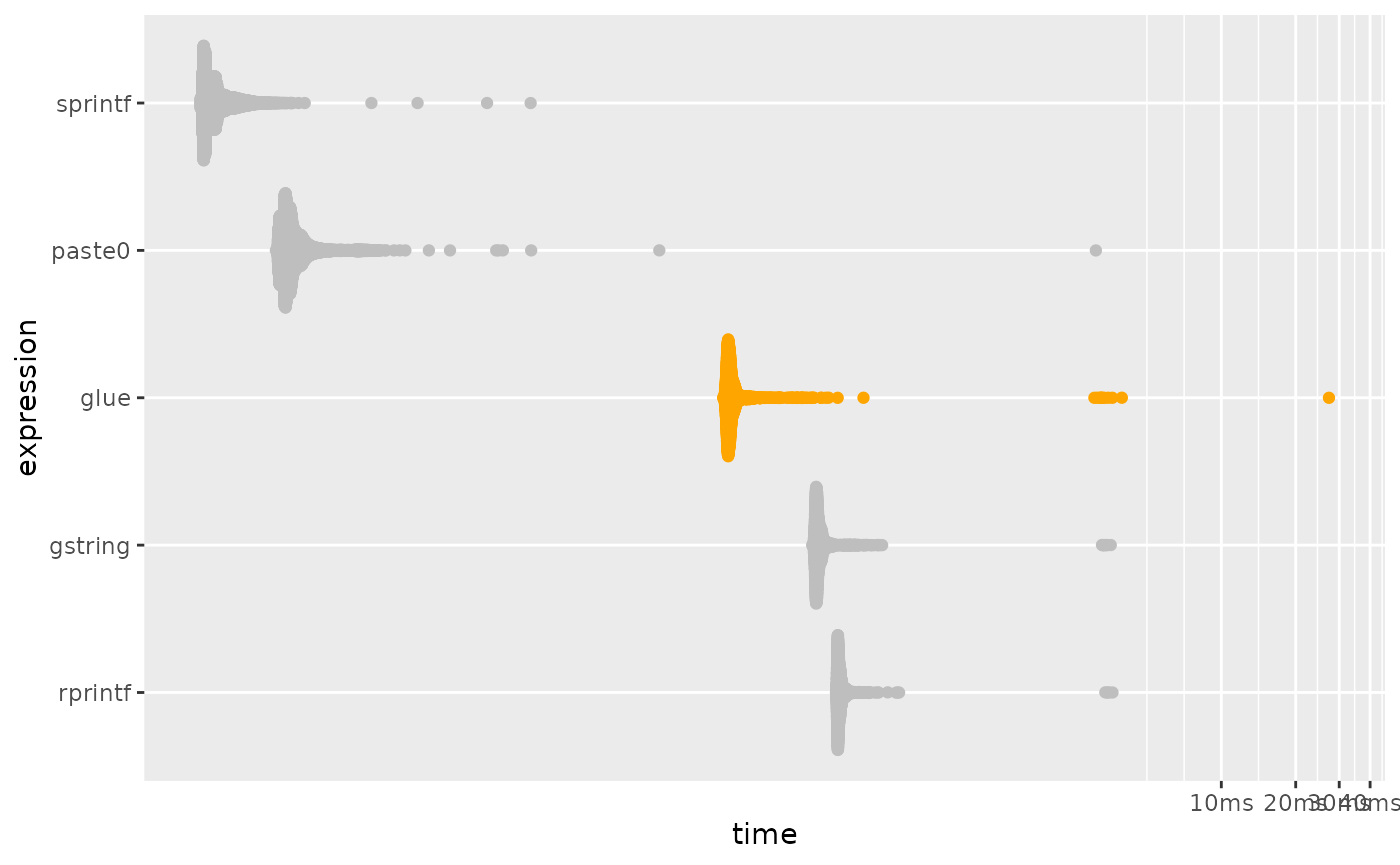
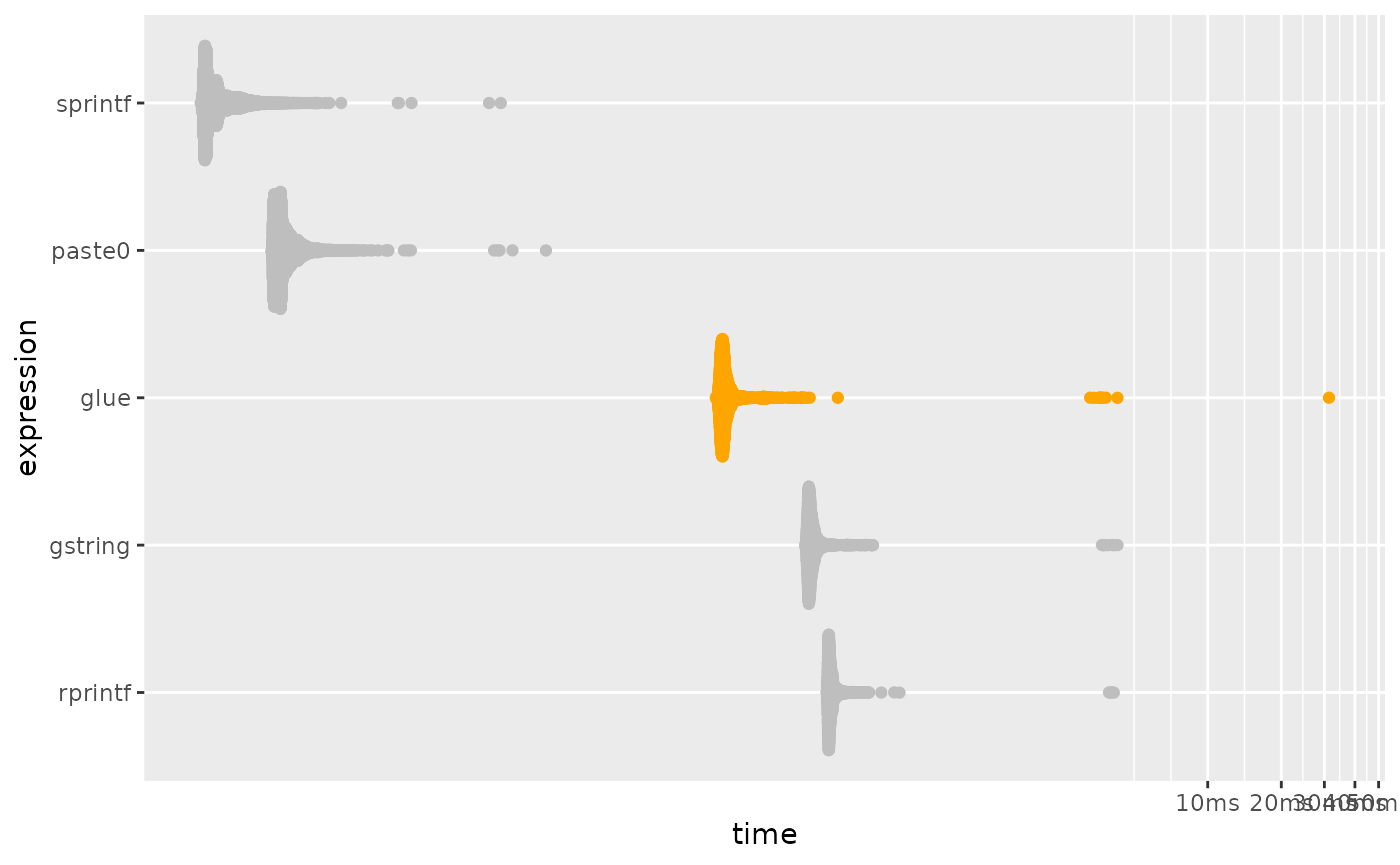
Deploying to gh-pages from @ tidyverse/glue@eaa95f7f5fe1a40b92008b4f567b5ed26bdb2cfd 🚀

diff --git a/dev/articles/wrappers.html b/dev/articles/wrappers.html
@@ -121,7 +121,8 @@ the withr, cli, and rlang packages (e.g. <code><a href="https://withr.r-lib.org
 <h2 id="working-example">Working example<a class="anchor" aria-label="anchor" href="#working-example"></a>
 </h2>
 <p>Here’s an abbreviated excerpt of the roxygen comment that generates
-the documentation for the starwars dataset in dplyr:</p>
+the documentation for the starwars dataset in dplyr
+(<code><a href="https://dplyr.tidyverse.org/reference/starwars.html" class="external-link">?dplyr::starwars</a></code>):</p>
 <div class="sourceCode" id="cb3"><pre class="downlit sourceCode r">
 <code class="sourceCode R"><span><span class="co">#' \describe{</span></span>
 <span><span class="co">#' \item{name}{Name of the character}</span></span>
@@ -131,11 +132,11 @@ the documentation for the starwars dataset in dplyr:</p>
 <span><span class="co">#' \item{films}{List of films the character appeared in}</span></span>
 <span><span class="co">#' }</span></span></code></pre></div>
 <p>To produce such text programmatically, the first step might be to
-generate the <code>\item</code> lines from a named list of column names
-and descriptions. Notice that <code>{</code> and <code>}</code> are
-important to the <code>\describe{...}</code> syntax, so this is an
-example where it is nice for glue to use different delimiters for
-expressions.</p>
+generate the <code>\item{}{}</code> lines from a named list of column
+names and descriptions. Notice that <code>{</code> and <code>}</code>
+are important to the <code>\describe{...}</code> and
+<code>\item{}{}</code> syntax, so this is an example where it is nice
+for glue to use different delimiters for expressions.</p>
 <p>Put the metadata in a suitable list:</p>
 <div class="sourceCode" id="cb4"><pre class="downlit sourceCode r">
 <code class="sourceCode R"><span><span class="va">sw_meta</span> <span class="op">&lt;-</span> <span class="fu"><a href="https://rdrr.io/r/base/list.html" class="external-link">list</a></span><span class="op">(</span></span>
@@ -147,15 +148,16 @@ expressions.</p>
 <span><span class="op">)</span></span></code></pre></div>
 <p>Define a custom glue wrapper and use it inside another helper that
 generates <code>\item</code> entries<a class="footnote-ref" tabindex="0" data-bs-toggle="popover" data-bs-content="&lt;p&gt;Note that delimiters &lt;code&gt;&amp;lt;&amp;lt;&lt;/code&gt; and
-`&lt;code&gt;&amp;gt;&amp;gt;&lt;/code&gt; have special meaning in knitr, so if you’re
-generating output for RMarkdown or Quarto, you should avoid them.&lt;/p&gt;"><sup>1</sup></a>:</p>
+&lt;code&gt;&amp;gt;&amp;gt;&lt;/code&gt; have special meaning in knitr (they are used for a
+templating feature in knitr itself). So in code chunks inside RMarkdown
+or Quarto documents, you may need to use different delimiters.&lt;/p&gt;"><sup>1</sup></a>:</p>
 <div class="sourceCode" id="cb5"><pre class="downlit sourceCode r">
 <code class="sourceCode R"><span><span class="va">my_glue</span> <span class="op">=</span> <span class="kw">function</span><span class="op">(</span><span class="va">...</span><span class="op">)</span> <span class="op">{</span></span>
-<span>  <span class="fu"><a href="../reference/glue.html">glue</a></span><span class="op">(</span><span class="va">...</span>, .open <span class="op">=</span> <span class="st">"&lt;@"</span>, .close <span class="op">=</span> <span class="st">"@&gt;"</span>, .envir <span class="op">=</span> <span class="fu"><a href="https://rdrr.io/r/base/sys.parent.html" class="external-link">parent.frame</a></span><span class="op">(</span><span class="op">)</span><span class="op">)</span></span>
+<span>  <span class="fu"><a href="../reference/glue.html">glue</a></span><span class="op">(</span><span class="va">...</span>, .open <span class="op">=</span> <span class="st">"&lt;&lt;"</span>, .close <span class="op">=</span> <span class="st">"&gt;&gt;"</span>, .envir <span class="op">=</span> <span class="fu"><a href="https://rdrr.io/r/base/sys.parent.html" class="external-link">parent.frame</a></span><span class="op">(</span><span class="op">)</span><span class="op">)</span></span>
 <span><span class="op">}</span></span>
 <span></span>
 <span><span class="va">named_list_to_items</span> <span class="op">&lt;-</span> <span class="kw">function</span><span class="op">(</span><span class="va">x</span><span class="op">)</span> <span class="op">{</span></span>
-<span>  <span class="fu">my_glue</span><span class="op">(</span><span class="st">"\\item{&lt;@names(x)@&gt;}{&lt;@x@&gt;}"</span><span class="op">)</span></span>
+<span>  <span class="fu">my_glue</span><span class="op">(</span><span class="st">"\\item{&lt;&lt;names(x)&gt;&gt;}{&lt;&lt;x&gt;&gt;}"</span><span class="op">)</span></span>
 <span><span class="op">}</span></span></code></pre></div>
 <p>Apply <code>named_list_to_items()</code> to starwars metadata:</p>
 <div class="sourceCode" id="cb6"><pre class="downlit sourceCode r">
@@ -169,11 +171,11 @@ generating output for RMarkdown or Quarto, you should avoid them.&lt;/p&gt;"><su
 <code>.envir</code> correctly in our wrapper function:</p>
 <div class="sourceCode" id="cb7"><pre class="downlit sourceCode r">
 <code class="sourceCode R"><span><span class="va">my_glue_WRONG</span> <span class="op">&lt;-</span> <span class="kw">function</span><span class="op">(</span><span class="va">...</span><span class="op">)</span> <span class="op">{</span></span>
-<span>  <span class="fu"><a href="../reference/glue.html">glue</a></span><span class="op">(</span><span class="va">...</span>, .open <span class="op">=</span> <span class="st">"&lt;@"</span>, .close <span class="op">=</span> <span class="st">"@&gt;"</span><span class="op">)</span></span>
+<span>  <span class="fu"><a href="../reference/glue.html">glue</a></span><span class="op">(</span><span class="va">...</span>, .open <span class="op">=</span> <span class="st">"&lt;&lt;"</span>, .close <span class="op">=</span> <span class="st">"&gt;&gt;"</span><span class="op">)</span></span>
 <span><span class="op">}</span></span>
 <span></span>
 <span><span class="va">named_list_to_items_WRONG</span> <span class="op">&lt;-</span> <span class="kw">function</span><span class="op">(</span><span class="va">x</span><span class="op">)</span> <span class="op">{</span></span>
-<span>  <span class="fu">my_glue_WRONG</span><span class="op">(</span><span class="st">"\\item{&lt;@names(x)@&gt;}{&lt;@x@&gt;}"</span><span class="op">)</span></span>
+<span>  <span class="fu">my_glue_WRONG</span><span class="op">(</span><span class="st">"\\item{&lt;&lt;names(x)&gt;&gt;}{&lt;&lt;x&gt;&gt;}"</span><span class="op">)</span></span>
 <span><span class="op">}</span></span>
 <span></span>
 <span><span class="fu">named_list_to_items_WRONG</span><span class="op">(</span><span class="va">sw_meta</span><span class="op">)</span></span>

diff --git a/dev/articles/speed.html b/dev/articles/speed.html
@@ -154,11 +154,11 @@ this benchmark, but is now formally marked as “superseded”, in favor of
 <span><span class="co">#&gt; <span style="color: #949494;"># A tibble: 5 × 6</span></span></span>
 <span><span class="co">#&gt;   expression      min   median `itr/sec` mem_alloc `gc/sec`</span></span>
 <span><span class="co">#&gt;   <span style="color: #949494; font-style: italic;">&lt;bch:expr&gt;</span> <span style="color: #949494; font-style: italic;">&lt;bch:tm&gt;</span> <span style="color: #949494; font-style: italic;">&lt;bch:tm&gt;</span>     <span style="color: #949494; font-style: italic;">&lt;dbl&gt;</span> <span style="color: #949494; font-style: italic;">&lt;bch:byt&gt;</span>    <span style="color: #949494; font-style: italic;">&lt;dbl&gt;</span></span></span>
-<span><span class="co">#&gt; <span style="color: #BCBCBC;">1</span> sprintf    740.98ns 832.02ns  1<span style="text-decoration: underline;">151</span>864.        0B     0   </span></span>
-<span><span class="co">#&gt; <span style="color: #BCBCBC;">2</span> paste0       1.49µs   1.69µs   <span style="text-decoration: underline;">560</span>587.        0B    56.1 </span></span>
-<span><span class="co">#&gt; <span style="color: #BCBCBC;">3</span> glue        96.35µs  102.3µs     <span style="text-decoration: underline;">9</span>517.  141.72KB    25.1 </span></span>
-<span><span class="co">#&gt; <span style="color: #BCBCBC;">4</span> gstring    220.95µs 232.12µs     <span style="text-decoration: underline;">4</span>211.    2.45MB    14.7 </span></span>
-<span><span class="co">#&gt; <span style="color: #BCBCBC;">5</span> rprintf     275.9µs 283.26µs     <span style="text-decoration: underline;">3</span>477.  503.39KB     8.23</span></span>
+<span><span class="co">#&gt; <span style="color: #BCBCBC;">1</span> sprintf    761.12ns 871.02ns  1<span style="text-decoration: underline;">090</span>374.        0B     0   </span></span>
+<span><span class="co">#&gt; <span style="color: #BCBCBC;">2</span> paste0       1.48µs   1.63µs   <span style="text-decoration: underline;">584</span>208.        0B     0   </span></span>
+<span><span class="co">#&gt; <span style="color: #BCBCBC;">3</span> glue        97.28µs 104.54µs     <span style="text-decoration: underline;">9</span>295.  141.72KB    25.5 </span></span>
+<span><span class="co">#&gt; <span style="color: #BCBCBC;">4</span> gstring    226.35µs 236.93µs     <span style="text-decoration: underline;">4</span>135.    2.45MB    14.8 </span></span>
+<span><span class="co">#&gt; <span style="color: #BCBCBC;">5</span> rprintf       276µs 284.96µs     <span style="text-decoration: underline;">3</span>447.  503.39KB     8.27</span></span>
 <span></span>
 <span><span class="co"># plotting function defined in a hidden chunk</span></span>
 <span><span class="fu">plot_comparison</span><span class="op">(</span><span class="va">simple</span><span class="op">)</span></span>
@@ -207,11 +207,11 @@ performance is much closer to that of <code><a href="https://rdrr.io/r/base/past
 <span><span class="co">#&gt; <span style="color: #949494;"># A tibble: 5 × 6</span></span></span>
 <span><span class="co">#&gt;   expression      min   median `itr/sec` mem_alloc `gc/sec`</span></span>
 <span><span class="co">#&gt;   <span style="color: #949494; font-style: italic;">&lt;bch:expr&gt;</span> <span style="color: #949494; font-style: italic;">&lt;bch:tm&gt;</span> <span style="color: #949494; font-style: italic;">&lt;bch:tm&gt;</span>     <span style="color: #949494; font-style: italic;">&lt;dbl&gt;</span> <span style="color: #949494; font-style: italic;">&lt;bch:byt&gt;</span>    <span style="color: #949494; font-style: italic;">&lt;dbl&gt;</span></span></span>
-<span><span class="co">#&gt; <span style="color: #BCBCBC;">1</span> paste0       8.16ms   8.22ms     121.    781.3KB     6.38</span></span>
-<span><span class="co">#&gt; <span style="color: #BCBCBC;">2</span> sprintf       8.9ms   8.97ms     111.    781.3KB     4.25</span></span>
-<span><span class="co">#&gt; <span style="color: #BCBCBC;">3</span> gstring     11.02ms  11.09ms      89.9    1.53MB     8.99</span></span>
-<span><span class="co">#&gt; <span style="color: #BCBCBC;">4</span> glue        11.32ms  11.69ms      84.8    2.29MB    11.5 </span></span>
-<span><span class="co">#&gt; <span style="color: #BCBCBC;">5</span> rprintf     28.39ms  28.75ms      34.0    3.05MB     4.54</span></span>
+<span><span class="co">#&gt; <span style="color: #BCBCBC;">1</span> paste0       8.19ms    8.2ms     121.    781.3KB     6.39</span></span>
+<span><span class="co">#&gt; <span style="color: #BCBCBC;">2</span> sprintf      8.94ms   8.99ms     111.    781.3KB     4.19</span></span>
+<span><span class="co">#&gt; <span style="color: #BCBCBC;">3</span> gstring     11.03ms  11.11ms      89.1    1.53MB     6.52</span></span>
+<span><span class="co">#&gt; <span style="color: #BCBCBC;">4</span> glue         11.3ms  11.81ms      84.0    2.29MB     9.08</span></span>
+<span><span class="co">#&gt; <span style="color: #BCBCBC;">5</span> rprintf      27.5ms  27.64ms      36.0    3.05MB     7.21</span></span>
 <span></span>
 <span><span class="co"># plotting function defined in a hidden chunk</span></span>
 <span><span class="fu">plot_comparison</span><span class="op">(</span><span class="va">vectorized</span><span class="op">)</span></span></code></pre></div>
